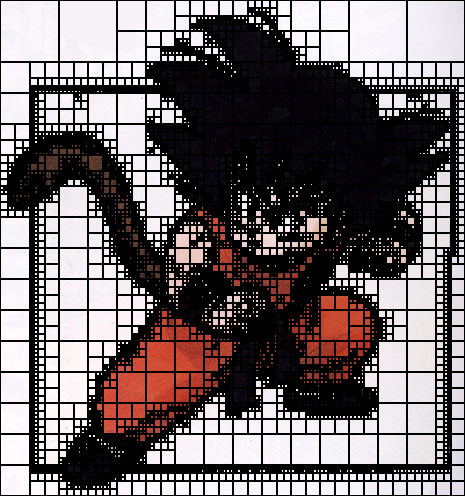
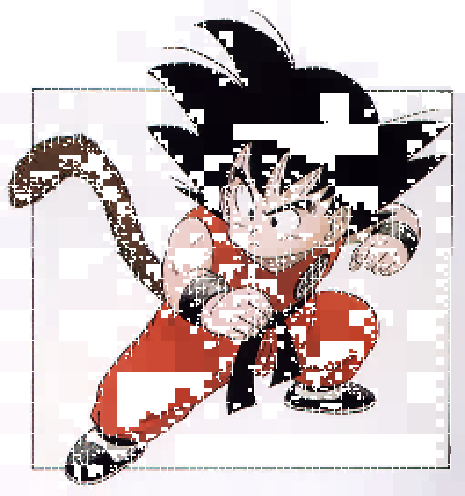
Implemented quadtree renderer to file

diff --git a/compress.py b/compress.py
@@ -14,12 +14,12 @@ COLOR_DELTA = 6.0
 MAX_RECUSIVE_CALLS = 100
 sys.setrecursionlimit(MAX_RECUSIVE_CALLS)
 
-image = Image.open("original.jpg")
-image = image.convert("RGB")
-pixels = image.load()
+source_image = Image.open("original.jpg")
+source_image = source_image.convert("RGB")
+source_pixels = source_image.load()
 
-image_tree = image.copy()
-image_tree_draw = ImageDraw.Draw(image_tree)
+#image_tree = source_image.copy()
+#image_tree_draw = ImageDraw.Draw(image_tree)
 
 @dataclass
 class Rect:
@@ -43,12 +43,15 @@ class QuadNode:
         self.third_node = None
         self.forth_node = None
 
+    def isLeaf(self) -> bool:
+        return self.first_node is None and self.second_node is None and self.third_node is None and self.forth_node is None
+
 def delta_e(rgb1: Color, rgb2: Color):
     lab1 = rgb2lab(np.array([rgb1.r, rgb1.g, rgb1.b]).reshape(1, 1, 3) / 255)
     lab2 = rgb2lab(np.array([rgb2.r, rgb2.g, rgb2.b]).reshape(1, 1, 3) / 255)
     return float(deltaE_ciede2000(lab1, lab2)[0, 0])
 
-def compress_image(region: Rect) -> Tuple[bool, Color]:
+def compress_image(region: Rect) -> QuadNode:
     # Get the average color of the region
     avg_color: Color = Color(0, 0, 0)
     start = time.perf_counter()
@@ -58,7 +61,7 @@ def compress_image(region: Rect) -> Tuple[bool, Color]:
         for y in range(region.sy, region.ey):
             # TODO: Next lines are O(n). We refactor de the code by avoiding recalculate
             #       pixel sums by using a 2D prefix sum (integral images) with an O(1) cost.
-            pixel: Tuple[int, int, int] = pixels[x, y]
+            pixel: Tuple[int, int, int] = source_pixels[x, y]
             avg_color.r += pixel[0]
             avg_color.g += pixel[1]
             avg_color.b += pixel[2]
@@ -73,59 +76,82 @@ def compress_image(region: Rect) -> Tuple[bool, Color]:
     avg_color.b /= total_pixels
     print(f"TOTAL PIXELS: ({total_pixels}) RGB: ({avg_color.r}, {avg_color.g}, {avg_color.b})")
 
+    node: QuadNode = QuadNode(region, avg_color)
+
     if (region.ex - region.sx <= 1) or (region.ey - region.sy <= 1):
         # A leaf node has been reached
-        return (False, avg_color)
+        return node
 
     need_fragment: bool = False
 
     first_quad_rect: Rect = Rect(region.sx, region.sy, (region.sx+region.ex)//2, (region.sy+region.ey)//2)
     if (region.sx < first_quad_rect.ex) and (region.sy < first_quad_rect.ey):
-        avg_color_first_quad: Color
-        fragmented: bool
-        (fragmented, avg_color_first_quad) = compress_image(first_quad_rect)
-        need_fragment = need_fragment | fragmented
-        if delta_e(avg_color_first_quad, avg_color) >= COLOR_DELTA:
+        sub_node: QuadNode = compress_image(first_quad_rect)
+        need_fragment = need_fragment or not sub_node.isLeaf()
+        if need_fragment or delta_e(sub_node.color, avg_color) >= COLOR_DELTA:
+            node.first_node = sub_node
             need_fragment = True
             #TODO: store subnode fragmentation codification
 
     second_quad_rect: Rect = Rect(((region.sx+region.ex)//2) + 1, region.sy, region.ex, (region.sy+region.ey)//2)
     if (second_quad_rect.sx < region.ex) and (region.sy < second_quad_rect.ey):
-        avg_color_second_quad: Color
-        fragmented: bool
-        (fragmented, avg_color_second_quad) = compress_image(second_quad_rect)
-        need_fragment = need_fragment | fragmented
-        if need_fragment or delta_e(avg_color_second_quad, avg_color) >= COLOR_DELTA:
+        sub_node: QuadNode = compress_image(second_quad_rect)
+        need_fragment = need_fragment or not sub_node.isLeaf()
+        if need_fragment or delta_e(sub_node.color, avg_color) >= COLOR_DELTA:
+            node.second_node = sub_node
             need_fragment = True
             #TODO: store subnode fragmentation codification
 
     third_quad_rect: Rect = Rect((region.sx+region.ex)//2 + 1, (region.sy+region.ey)//2 + 1, region.ex, region.ey)
     if (third_quad_rect.sx < region.ex) and (third_quad_rect.sy < region.ey):
-        avg_color_third_quad: Color
-        fragmented: bool
-        (fragmented, avg_color_third_quad) = compress_image(third_quad_rect)
-        need_fragment = need_fragment | fragmented
-        if need_fragment or delta_e(avg_color_third_quad, avg_color) >= COLOR_DELTA:
+        sub_node: QuadNode = compress_image(third_quad_rect)
+        need_fragment = need_fragment or not sub_node.isLeaf()
+        if need_fragment or delta_e(sub_node.color, avg_color) >= COLOR_DELTA:
+            node.third_node = sub_node
             need_fragment = True
             #TODO: store subnode fragmentation codification
 
     forth_quad_rect: Rect = Rect(region.sx, (region.sy+region.ey)//2 + 1, (region.sx+region.ex)//2, region.ey)
     if (region.sx < (region.sx+region.ex)//2) and ((region.sy+region.ey)//2 + 1 < region.ey):
-        avg_color_forth_quad: Color
-        fragmented: bool
-        (fragmented, avg_color_forth_quad) = compress_image(forth_quad_rect)
-        need_fragment = need_fragment | fragmented
-        if need_fragment or delta_e(avg_color_forth_quad, avg_color) >= COLOR_DELTA:
+        sub_node: QuadNode = compress_image(forth_quad_rect)
+        need_fragment = need_fragment or not sub_node.isLeaf()
+        if need_fragment or delta_e(sub_node.color, avg_color) >= COLOR_DELTA:
+            node.forth_node = sub_node
             need_fragment = True
             #TODO: store subnode fragmentation codification
 
+    """
     if need_fragment:
         image_tree_draw.rectangle((first_quad_rect.sx, first_quad_rect.sy, first_quad_rect.ex, first_quad_rect.ey), outline=(0, 0, 0), width=1)
         image_tree_draw.rectangle((second_quad_rect.sx, second_quad_rect.sy, second_quad_rect.ex, second_quad_rect.ey), outline=(0, 0, 0), width=1)
         image_tree_draw.rectangle((third_quad_rect.sx, third_quad_rect.sy, third_quad_rect.ex, third_quad_rect.ey), outline=(0, 0, 0), width=1)
         image_tree_draw.rectangle((forth_quad_rect.sx, forth_quad_rect.sy, forth_quad_rect.ex, forth_quad_rect.ey), outline=(0, 0, 0), width=1)
+    """
+    return node
 
-    return (need_fragment, avg_color)
+def render_node_to_image(node: QuadNode, image: ImageDraw.ImageDraw):
+    if node.isLeaf():
+        image.rectangle((node.region.sx, node.region.sy, node.region.ex, node.region.ey), fill=(int(node.color.r), int(node.color.g), int(node.color.b)))
+        #image.rectangle((node.region.sx, node.region.sy, node.region.ex, node.region.ey), outline=(0, 0, 0), width=1)
+        return
 
-compress_image(Rect(0, 0, image.width - 1, image.height - 1))
-image_tree.save("out.png")
+    if node.first_node is not None:
+        render_node_to_image(node.first_node, image)
+
+    if node.second_node is not None:
+        render_node_to_image(node.second_node, image)
+
+    if node.third_node is not None:
+        render_node_to_image(node.third_node, image)
+
+    if node.forth_node is not None:
+        render_node_to_image(node.forth_node, image)
+
+def render_quadtree_to_file(node: QuadNode, width: int, height: int, filename: str):
+    image = Image.new("RGB", (width, height), "white")
+    image_draw = ImageDraw.Draw(image)
+    render_node_to_image(node, image_draw)
+    image.save(filename)
+
+root_node: QuadNode = compress_image(Rect(0, 0, source_image.width - 1, source_image.height - 1))
+render_quadtree_to_file(root_node, source_image.width, source_image.height, "out.png")
